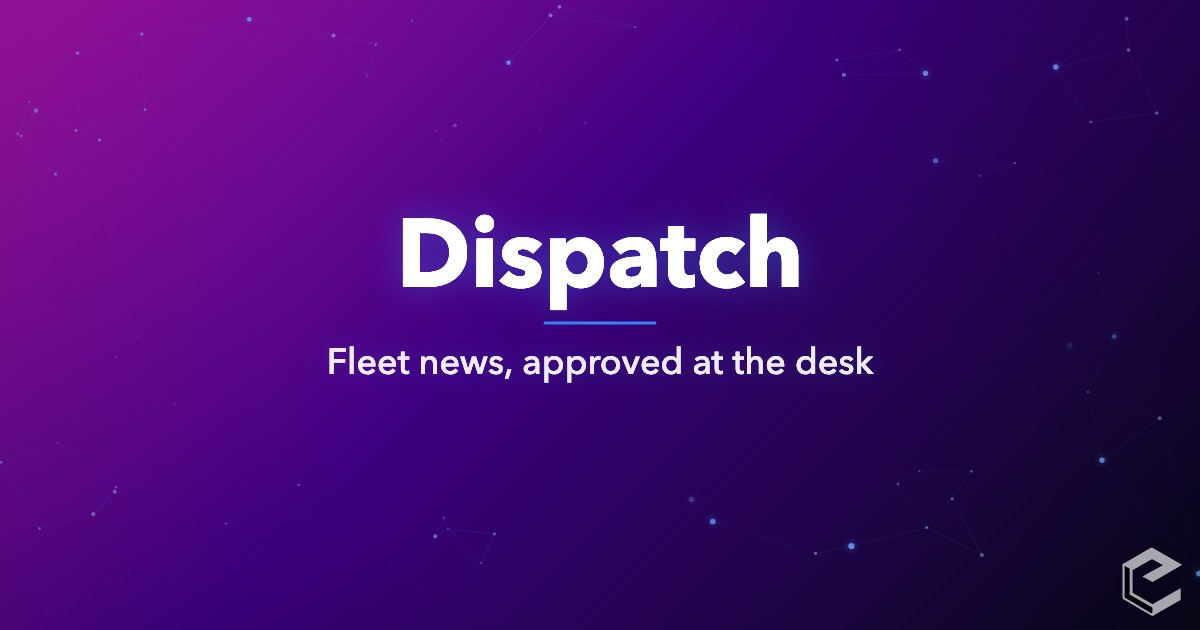
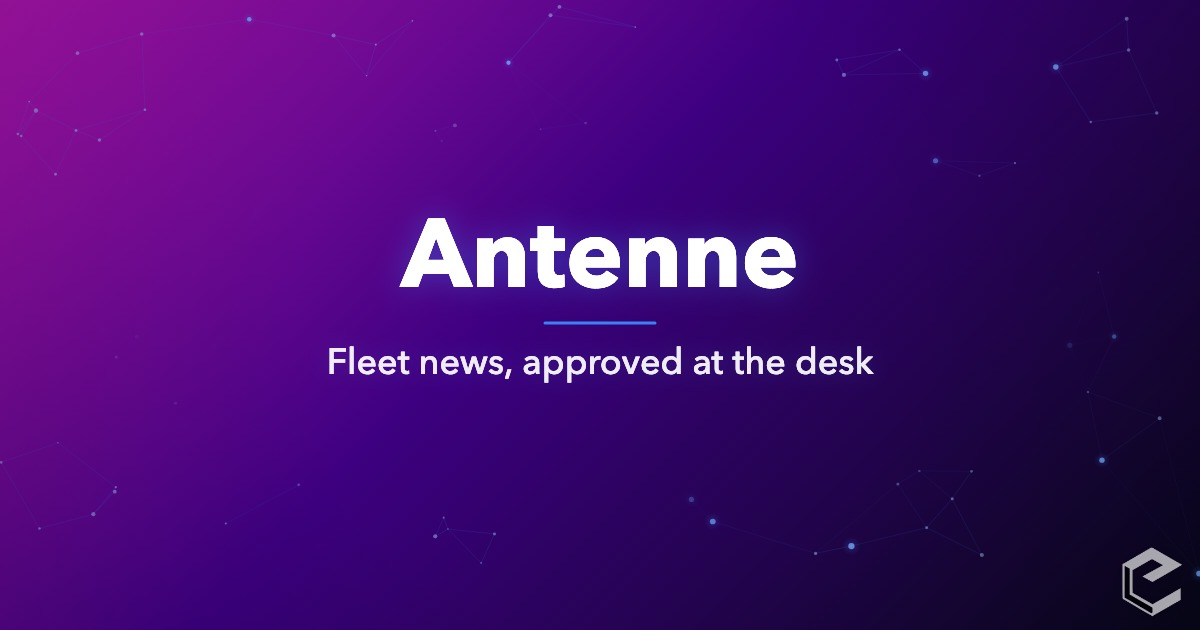
05

Changed region(s): [[0.3083, 0.3317, 0.6783, 0.5127]]

diff --git a/index.html b/index.html
@@ -4,15 +4,15 @@
   <meta charset="UTF-8">
   <meta name="viewport" content="width=device-width, initial-scale=1.0">
   <meta http-equiv="Content-Security-Policy" content="default-src 'self'; base-uri 'self'; form-action 'self'; script-src 'self' 'unsafe-inline'; style-src 'self' 'unsafe-inline' https://cdn.neorgon.org https://fonts.googleapis.com; font-src 'self' https://fonts.gstatic.com; img-src 'self' data: https://cdn.neorgon.org; connect-src 'self'; upgrade-insecure-requests">
-  <title>Dispatch | Neorgon Fleet News</title>
+  <title>Antenne | Neorgon Fleet News</title>
   <meta name="description" content="Read what shipped across the Neorgon fleet: launches, features, and fixes, drafted from real work logs and approved at the desk before publishing">
-  <meta property="og:title" content="Dispatch: Neorgon Fleet News">
+  <meta property="og:title" content="Antenne: Neorgon Fleet News">
   <meta property="og:description" content="What shipped across the fleet, approved at the desk">
   <meta property="og:type" content="website">
   <meta property="og:url" content="https://dispatch.neorgon.com/">
   <meta property="og:site_name" content="Neorgon">
   <meta name="twitter:card" content="summary_large_image">
-  <meta name="twitter:title" content="Dispatch: Neorgon Fleet News">
+  <meta name="twitter:title" content="Antenne: Neorgon Fleet News">
   <meta name="twitter:description" content="What shipped across the fleet, approved at the desk">
   <meta name="robots" content="index, follow">
   <link rel="canonical" href="https://dispatch.neorgon.com/">
@@ -21,17 +21,17 @@
   <meta property="og:image" content="https://dispatch.neorgon.com/og-preview.jpg">
   <meta property="og:image:width" content="1200">
   <meta property="og:image:height" content="630">
-  <meta property="og:image:alt" content="Dispatch">
+  <meta property="og:image:alt" content="Antenne">
   <meta name="twitter:image" content="https://dispatch.neorgon.com/og-preview.jpg">
   <meta name="neo-repo" content="https://github.com/energon-a-secas/dispatch-site">
   <meta name="neo-version" content="1.0.0">
   <meta name="neo-updated" content="Aug 2026">
-  <link rel="alternate" type="application/rss+xml" title="Dispatch: Neorgon fleet news" href="https://dispatch.neorgon.com/feed.xml">
+  <link rel="alternate" type="application/rss+xml" title="Antenne: Neorgon fleet news" href="https://dispatch.neorgon.com/feed.xml">
   <link rel="icon" type="image/x-icon" href="https://cdn.neorgon.org/v1.0.0/favicon.ico" />
-  <!-- Fleet design tokens — canonical, do not redeclare locally (PROJECTS.md section 5) -->
+  <!-- Fleet design tokens: canonical, do not redeclare locally (PROJECTS.md section 5) -->
   <link rel="stylesheet" href="https://cdn.neorgon.org/v1.0.0/styles/base.css">
   <link rel="stylesheet" href="css/style.css">
-  <!-- Neorgon Header Kit (vendored; ?header=live swaps CSS to CDN). Keep after style.css — the kit owns the header. -->
+  <!-- Neorgon Header Kit (vendored; ?header=live swaps CSS to CDN). Keep after style.css. The kit owns the header. -->
   <script>(function(){var m=location.search.match(/[?&]theme=([\w-]+)/)||document.cookie.match(/(?:^|;\s*)neo_theme=([\w-]+)/);if(m&&m[1]!=='default')document.documentElement.dataset.theme=decodeURIComponent(m[1]);})();</script>
   <link rel="stylesheet" href="css/neorgon-header.css">
   <link rel="stylesheet" href="css/neorgon-themes.css">
@@ -45,7 +45,7 @@
   {
     "@context": "https://schema.org",
     "@type": "WebApplication",
-    "name": "Dispatch",
+    "name": "Antenne",
     "description": "Read what shipped across the Neorgon fleet: launches, features, and fixes, drafted from real work logs and approved at the desk before publishing",
     "url": "https://dispatch.neorgon.com/",
     "applicationCategory": "NewsApplication",
@@ -66,7 +66,7 @@
       <a href="./" class="header-title-link">
         <img src="https://cdn.neorgon.org/v1.0.0/energon-classic-logo.png" class="header-logo-img" alt="">
         <div class="header-title-wrap">
-        <h1>Dispatch</h1>
+        <h1>Antenne</h1>
         <div class="header-subtitle">Fleet launches, features, and updates</div>
       
         </div>

diff --git a/desk.html b/desk.html
@@ -4,8 +4,8 @@
   <meta charset="UTF-8">
   <meta name="viewport" content="width=device-width, initial-scale=1.0">
   <meta http-equiv="Content-Security-Policy" content="default-src 'self'; base-uri 'self'; form-action 'self'; script-src 'self' 'unsafe-inline'; style-src 'self' 'unsafe-inline' https://cdn.neorgon.org https://fonts.googleapis.com; font-src 'self' https://fonts.gstatic.com; img-src 'self' data: https://cdn.neorgon.org; connect-src 'self'; upgrade-insecure-requests">
-  <title>Dispatch Desk | Draft Approval</title>
-  <meta name="description" content="Review, edit, and approve Dispatch drafts before they publish. Drafts exist on the machine that wrote them, so real work happens on localhost">
+  <title>Antenne Desk | Draft Approval</title>
+  <meta name="description" content="Review, edit, and approve Antenne drafts before they publish. Drafts exist on the machine that wrote them, so real work happens on localhost">
   <meta name="robots" content="noindex, nofollow">
   <meta name="theme-color" content="#040714">
   <link rel="icon" type="image/x-icon" href="https://cdn.neorgon.org/v1.0.0/favicon.ico" />
@@ -29,7 +29,7 @@
       <a href="desk.html" class="header-title-link">
         <img src="https://cdn.neorgon.org/v1.0.0/energon-classic-logo.png" class="header-logo-img" alt="">
         <div class="header-title-wrap">
-        <h1>Dispatch Desk</h1>
+        <h1>Antenne Desk</h1>
         <div class="header-subtitle">Approve drafts before they ship</div>
       
         </div>

diff --git a/js/render.js b/js/render.js
@@ -95,8 +95,10 @@ function renderEmbed(s) {
   const full = location.origin + location.pathname;
   document.getElementById('main').innerHTML =
     '<div class="embed">'
-    + '<div class="embed__masthead"><span class="embed__brand">Dispatch</span>'
-    + '<span class="embed__tag">fleet news</span></div>'
+    + (s.brand
+      ? '<div class="embed__masthead"><span class="embed__brand">Antenne</span>'
+        + '<span class="embed__tag">fleet news</span></div>'
+      : '')
     + (posts.length
       ? '<ul class="embed__list">' + posts.map((p) =>
           '<li class="embed__item">'
@@ -109,7 +111,7 @@ function renderEmbed(s) {
         ).join('') + '</ul>'
       : '<div class="embed__empty">No stories yet.</div>')
     + '<a class="embed__open" href="' + escHtml(full) + '" target="_blank" rel="noopener noreferrer">'
-    + 'Open in Dispatch ↗</a>'
+    + 'Open in Antenne ↗</a>'
     + '</div>';
 }
 

diff --git a/404.html b/404.html
@@ -3,7 +3,7 @@
 <head>
   <meta charset="UTF-8">
   <meta name="viewport" content="width=device-width, initial-scale=1.0">
-  <title>Not found | Dispatch</title>
+  <title>Not found | Antenne</title>
   <meta name="robots" content="noindex">
   <link rel="icon" type="image/x-icon" href="https://cdn.neorgon.org/v1.0.0/favicon.ico" />
   <link rel="stylesheet" href="https://cdn.neorgon.org/v1.0.0/styles/base.css">
@@ -32,7 +32,7 @@
     <p class="code">404</p>
     <h1>That page is not here</h1>
     <p>The link may be old, or the address may have a typo in it.</p>
-    <a href="/">Back to Dispatch</a>
+    <a href="/">Back to Antenne</a>
     <a href="https://neorgon.com">All tools</a>
   </main>
 </body>

diff --git a/js/state.js b/js/state.js
@@ -22,6 +22,9 @@ export const state = {
   openId: null,     // id of the expanded story, one at a time
   embed,
   limit: embedLimit(),
+  // ?brand=0 drops the embed's own masthead, for hosts whose chrome
+  // already names the site (the hub's corner popup does).
+  brand: params.get('brand') !== '0',
   chrome: true,     // header + footer visible; `h` toggles (sortie pattern)
   lastSeen: null,   // newest post date already seen on a previous visit
   prevSeen: null,   // snapshot of lastSeen at load, drives the NEW badges

diff --git a/scripts/build-feed.py b/scripts/build-feed.py
@@ -90,7 +90,7 @@ def main() -> None:
     feed = f"""<?xml version="1.0" encoding="UTF-8"?>
 <rss version="2.0" xmlns:atom="http://www.w3.org/2005/Atom">
   <channel>
-    <title>Dispatch: Neorgon fleet news</title>
+    <title>Antenne: Neorgon fleet news</title>
     <link>{SITE_URL}</link>
     <atom:link href="{SITE_URL}feed.xml" rel="self" type="application/rss+xml"/>
     <description>Launches, features, and fixes across the Neorgon fleet, approved at the desk before publishing</description>

diff --git a/README.md b/README.md
@@ -1,6 +1,6 @@
 <div align="center">
 
-# Dispatch
+# Antenne
 
 Fleet launches, features, and updates as a news feed
 
@@ -30,7 +30,7 @@ Fleet launches, features, and updates as a news feed
 
 ## Overview
 
-Dispatch reports what shipped across the Neorgon fleet: launches, features, and
+Antenne reports what shipped across the Neorgon fleet: launches, features, and
 fixes as short news stories, drafted from the fleet's own work logs. Every story
 passes through an approval desk before it publishes, so the feed carries what a
 human decided was worth telling, not a firehose of commits. The same feed powers
@@ -47,7 +47,9 @@ an embeddable strip for the hub's corner popup and an RSS feed.
 - **Approval desk** -- `desk.html` reads uncommitted drafts from `data/drafts/`,
   lets you edit and approve each one, and writes the merged `data/posts.json`
 - **Embed strip** -- `?embed=1&limit=N` renders a compact headline list for
-  iframes, with no storage writes and an attribution link back to the full site
+  iframes, with no storage writes and an attribution link back to the full site;
+  add `&brand=0` to drop the strip's own masthead when the host chrome already
+  names the site (the hub's corner popup does)
 - **Chrome toggle** -- the header auto-hides while you read, and `h` hides the
   header and footer entirely
 - **Deep links** -- `#p=<story-id>` opens a story directly; RSS at `feed.xml`

diff --git a/PRODUCT.md b/PRODUCT.md
@@ -1,4 +1,4 @@
-# Dispatch: product one-pager
+# Antenne: product one-pager
 
 **What it is:** Fleet launches, features, and updates as a news feed
 
